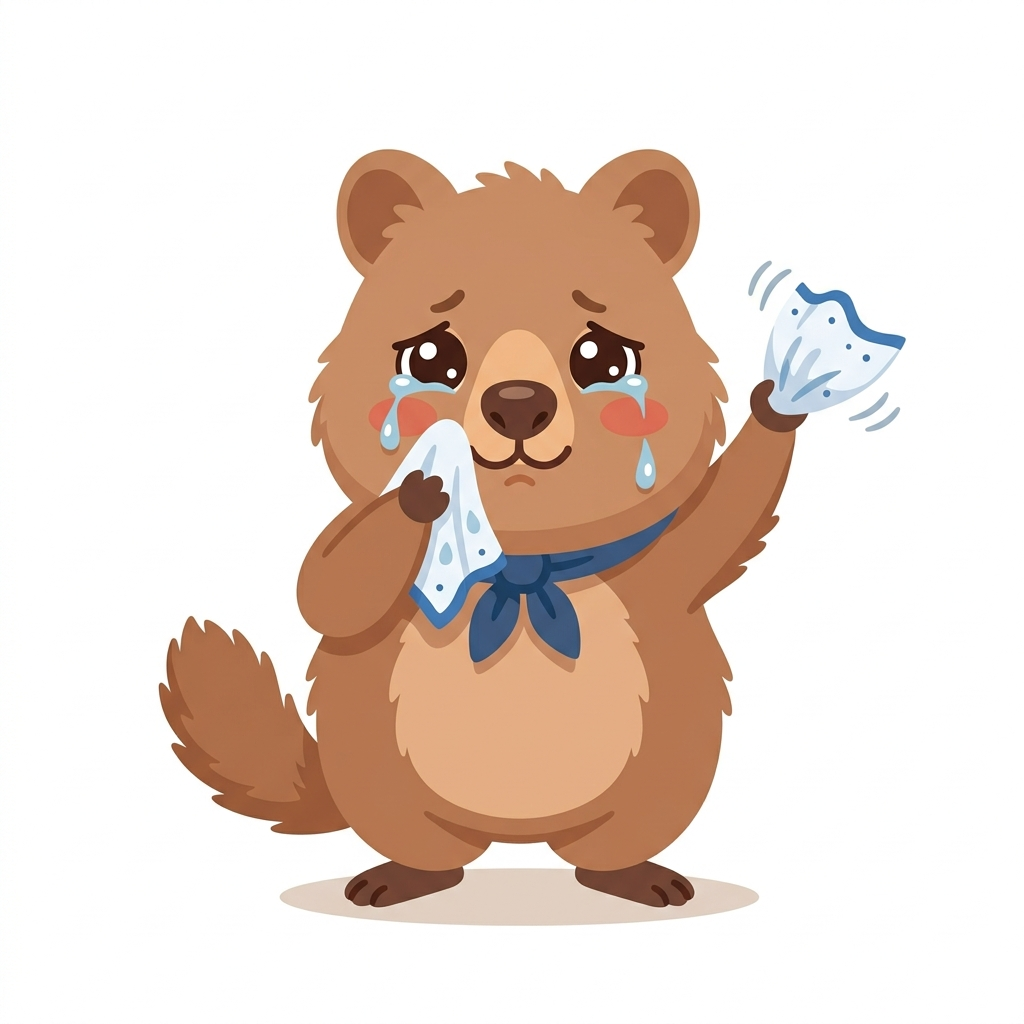
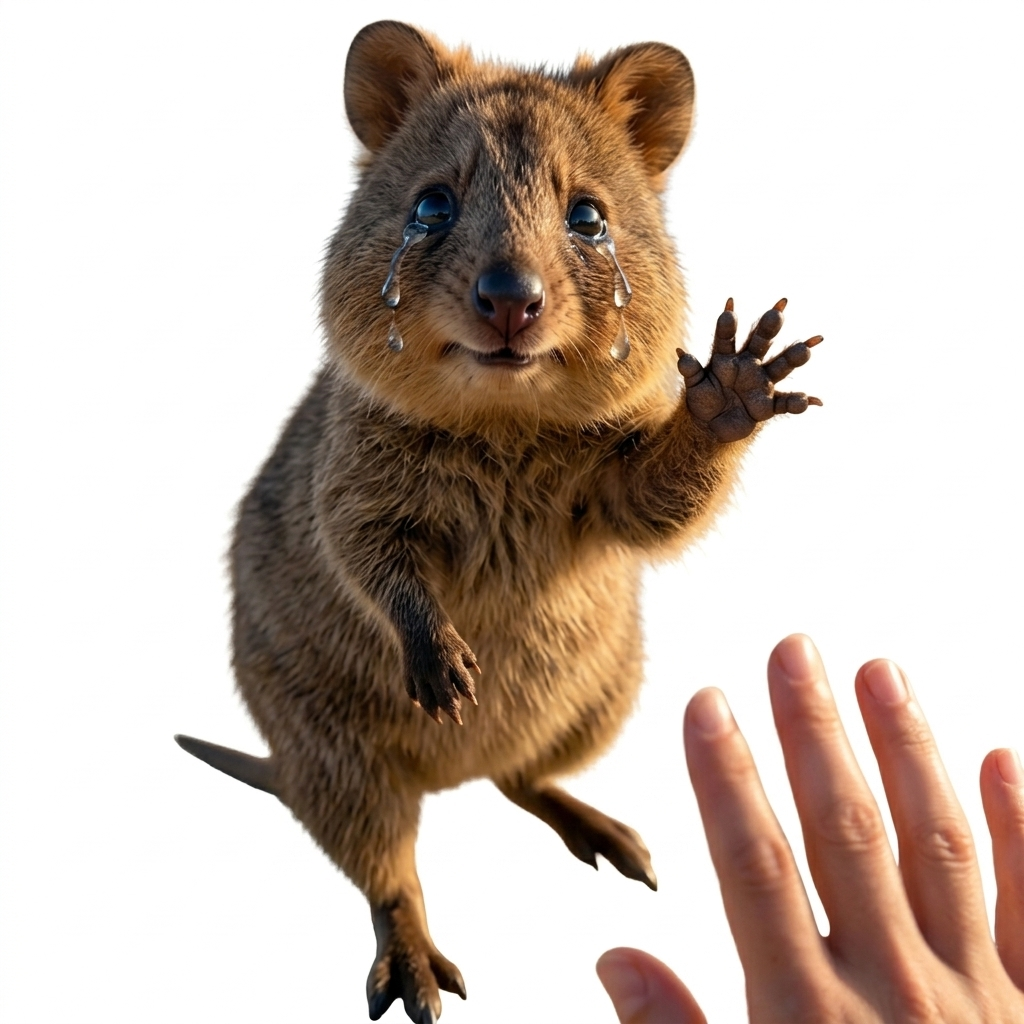
feat: replace animations with user provided images and update logic

diff --git a/public/app.js b/public/app.js
@@ -1023,45 +1023,19 @@ function playPlusOneAnimation(btn) {
   const scrollListener = () => updatePosition();
   window.addEventListener('scroll', scrollListener, true);
   
-  const orbitWrapper = document.createElement('div');
-  orbitWrapper.style.position = 'absolute';
-  orbitWrapper.style.left = '0';
-  orbitWrapper.style.top = '0';
-  orbitWrapper.style.width = '0';
-  orbitWrapper.style.height = '0';
-  orbitWrapper.style.animation = 'quokkaOrbit 1.5s linear infinite';
-  
   const quokka = document.createElement('img');
   getTransparentImage('images/quokka_dance.png', (src) => {
     quokka.src = src;
   });
   quokka.style.position = 'absolute';
-  quokka.style.width = '110px';
+  quokka.style.width = '120px';
   quokka.style.height = 'auto';
-  quokka.style.marginTop = '-55px';
-  quokka.style.marginLeft = '-55px';
-  quokka.style.animation = 'quokkaBounce 0.4s ease-in-out infinite';
-  
-  orbitWrapper.appendChild(quokka);
-  container.appendChild(orbitWrapper);
-  
-  const flowerInterval = setInterval(() => {
-    const flower = document.createElement('div');
-    flower.innerText = ['🌸', '🌺', '🌼', '✨'][Math.floor(Math.random() * 4)];
-    flower.style.position = 'absolute';
-    flower.style.fontSize = '24px';
-    const angle = (Date.now() / 1500) * 360 * (Math.PI / 180);
-    const x = Math.cos(angle) * 70;
-    const y = Math.sin(angle) * 70;
-    flower.style.left = `${x}px`;
-    flower.style.top = `${y}px`;
-    flower.style.animation = 'flowerFall 1s forwards ease-in';
-    container.appendChild(flower);
-    setTimeout(() => flower.remove(), 1000);
-  }, 150);
+  quokka.style.marginTop = '-120px';
+  quokka.style.marginLeft = '-60px';
+  quokka.style.animation = 'quokkaJump 0.5s ease-in-out infinite alternate';
+  container.appendChild(quokka);
   
   const cleanup = () => {
-    clearInterval(flowerInterval);
     btn.classList.remove('glowing-prize');
     container.remove();
     window.removeEventListener('scroll', scrollListener, true);
@@ -1085,126 +1059,98 @@ function playPlusOneAnimation(btn) {
 
 function playMinusOneDodgeAnimation(btn) {
   btn.dataset.dodged = 'true';
-  btn.style.position = 'relative';
+  btn.style.visibility = 'hidden';
   
-  const moveX = (Math.random() > 0.5 ? 1 : -1) * (Math.random() * 50 + 40);
-  const moveY = (Math.random() > 0.5 ? 1 : -1) * (Math.random() * 30 + 15);
-  // Sneaky slow transition
-  btn.style.transition = 'transform 1.2s cubic-bezier(0.42, 0, 0.58, 1)';
-  btn.style.transform = `translate(${moveX}px, ${moveY}px)`;
+  const startPos = getButtonCenter(btn);
   
-  if (!btn.querySelector('.quokka-carry')) {
-    const quokka = document.createElement('img');
-    getTransparentImage('images/quokka_carry.png', (src) => {
-      quokka.src = src;
-    });
-    quokka.className = 'quokka-carry';
-    quokka.style.position = 'absolute';
-    quokka.style.width = '70px';
-    quokka.style.height = 'auto';
-    quokka.style.right = '-35px'; // Overlap more to hide left arm behind button
-    quokka.style.top = '50%';
-    quokka.style.transform = 'translateY(-50%)';
-    quokka.style.pointerEvents = 'none';
-    quokka.style.zIndex = '-1'; // Place body and back arm BEHIND the button
-    quokka.style.animation = 'quokkaTiptoe 0.4s infinite';
-    btn.appendChild(quokka);
-
-    // Front paw on TOP of the button
-    const paw = document.createElement('div');
-    paw.className = 'quokka-paw';
-    paw.style.position = 'absolute';
-    paw.style.width = '16px';
-    paw.style.height = '12px';
-    paw.style.backgroundColor = '#A0522D'; // Sienna/brown color
-    paw.style.border = '1px solid #5C3A21'; // Dark outline
-    paw.style.borderRadius = '8px';
-    paw.style.right = '5px'; // On the button's right edge
-    paw.style.top = '50%';
-    paw.style.transform = 'translateY(-50%)';
-    paw.style.zIndex = '5'; // IN FRONT of the button
-    paw.style.pointerEvents = 'none';
-    paw.style.animation = 'quokkaTiptoe 0.4s infinite';
-    btn.appendChild(paw);
-  }
+  const floatingQuokka = document.createElement('div');
+  floatingQuokka.className = 'floating-quokka-carry';
+  floatingQuokka.style.position = 'fixed';
+  floatingQuokka.style.zIndex = '9999';
+  floatingQuokka.style.cursor = 'pointer';
+  floatingQuokka.style.transition = 'transform 2s ease-in-out';
+  floatingQuokka.style.left = (startPos.x - 60) + 'px';
+  floatingQuokka.style.top = (startPos.y - 60) + 'px';
+  
+  const img = document.createElement('img');
+  getTransparentImage('images/quokka_carry_1.png', (src) => {
+    img.src = src;
+  });
+  img.style.width = '120px';
+  img.style.height = 'auto';
+  img.style.pointerEvents = 'none'; // clicks go to the wrapper
+  floatingQuokka.appendChild(img);
+  
+  document.body.appendChild(floatingQuokka);
+  
+  const moveRandomly = () => {
+    const maxX = window.innerWidth - 120;
+    const maxY = window.innerHeight - 120;
+    const rx = Math.random() * maxX - (startPos.x - 60);
+    const ry = Math.random() * maxY - (startPos.y - 60);
+    floatingQuokka.style.transform = `translate(${rx}px, ${ry}px)`;
+  };
+  
+  setTimeout(moveRandomly, 100);
+  const moveInterval = setInterval(moveRandomly, 2000);
+  
+  floatingQuokka._moveInterval = moveInterval;
+  floatingQuokka._img = img;
+  floatingQuokka._startPos = startPos;
+  
+  floatingQuokka.addEventListener('click', (e) => {
+    e.stopPropagation();
+    btn._floatingQuokka = floatingQuokka;
+    btn.click();
+  });
 }
 
 function playMinusOneCancelAnimation(btn) {
   btn.dataset.dodged = 'false';
-  btn.style.transition = 'transform 0.5s ease';
-  btn.style.transform = 'translate(0px, 0px)';
   
-  const carryQuokka = btn.querySelector('.quokka-carry');
-  if (carryQuokka) carryQuokka.remove();
+  const floatingQuokka = btn._floatingQuokka;
+  if (!floatingQuokka) {
+    btn.style.visibility = 'visible';
+    return;
+  }
   
-  const paw = btn.querySelector('.quokka-paw');
-  if (paw) paw.remove();
+  clearInterval(floatingQuokka._moveInterval);
   
-  const container = document.createElement('div');
-  container.style.position = 'fixed';
-  container.style.pointerEvents = 'none';
-  container.style.zIndex = '9999';
-  document.body.appendChild(container);
-  
-  const updatePosition = () => {
-    const center = getButtonCenter(btn);
-    container.style.left = center.x + 'px';
-    container.style.top = center.y + 'px';
-  };
-  updatePosition();
-  
-  const scrollListener = () => updatePosition();
-  window.addEventListener('scroll', scrollListener, true);
-  
-  const quokkaMover = document.createElement('div');
-  quokkaMover.style.position = 'absolute';
-  quokkaMover.style.left = '40px';
-  quokkaMover.style.top = '-50px';
-  quokkaMover.style.width = '120px';
-  quokkaMover.style.height = '120px';
-  
-  const quokka = document.createElement('img');
-  getTransparentImage('images/quokka_cry.png', (src) => {
-    quokka.src = src;
+  // 圖2
+  getTransparentImage('images/quokka_carry_2.png', (src) => {
+    floatingQuokka._img.src = src;
   });
-  quokka.style.position = 'absolute';
-  quokka.style.width = '100%';
-  quokka.style.height = 'auto';
-  quokkaMover.appendChild(quokka);
-  container.appendChild(quokkaMover);
   
-  // 1. Walk in
-  quokkaMover.style.animation = 'quokkaWalkIn 1s ease-out forwards';
-  quokka.style.animation = 'quokkaWobble 0.4s infinite';
+  // 回歸原位
+  floatingQuokka.style.transition = 'transform 1s ease-in-out';
+  floatingQuokka.style.transform = 'translate(0px, 0px)';
   
   setTimeout(() => {
-    // 2. Stop wiggling, do press
-    quokka.style.animation = 'none';
-    quokkaMover.style.animation = 'quokkaPress 0.4s ease-in-out forwards';
+    // 按下去的動作
+    floatingQuokka.style.transition = 'transform 0.2s';
+    floatingQuokka.style.transform = 'translate(0px, 10px)';
     
     setTimeout(() => {
-      // 3. Show -1 text
-      const minusOne = document.createElement('div');
-      minusOne.innerText = '-1';
-      minusOne.style.position = 'absolute';
-      minusOne.style.color = 'var(--danger-color)';
-      minusOne.style.fontWeight = 'bold';
-      minusOne.style.fontSize = '32px';
-      minusOne.style.left = '-15px';
-      minusOne.style.top = '-30px';
-      minusOne.style.animation = 'floatUpFade 1s forwards';
-      container.appendChild(minusOne);
+      floatingQuokka.style.transform = 'translate(0px, 0px)';
       
-      // 4. Wave and leave
+      // 顯示真正的按鈕
+      btn.style.visibility = 'visible';
+      
+      // 圖3 揮手哭泣
+      getTransparentImage('images/quokka_cry.png', (src) => {
+        floatingQuokka._img.src = src;
+      });
+      
+      floatingQuokka.style.animation = 'quokkaLeave 4s forwards';
+      
       setTimeout(() => {
-        quokkaMover.style.animation = 'quokkaLeave 4.5s forwards';
-        setTimeout(() => {
-          container.remove();
-          window.removeEventListener('scroll', scrollListener, true);
-        }, 4500);
-      }, 500);
+        floatingQuokka.remove();
+      }, 4000);
+      
     }, 200);
   }, 1000);
+  
+  btn._floatingQuokka = null;
 }
 
 // 處理新的輸入框報名與防呆
@@ -1225,12 +1171,12 @@ async function handleActionWithInput(event, gameId, action) {
     document.querySelectorAll('button.btn-danger').forEach(b => {
       if (b.dataset.dodged === 'true') {
         b.dataset.dodged = 'false';
-        b.style.transition = 'transform 1s ease';
-        b.style.transform = 'translate(0px, 0px)';
-        const carryQ = b.querySelector('.quokka-carry');
-        if (carryQ) carryQ.remove();
-        const paw = b.querySelector('.quokka-paw');
-        if (paw) paw.remove();
+        b.style.visibility = 'visible';
+        if (b._floatingQuokka) {
+          clearInterval(b._floatingQuokka._moveInterval);
+          b._floatingQuokka.remove();
+          b._floatingQuokka = null;
+        }
       }
     });
   }

diff --git a/public/style.css b/public/style.css
@@ -398,3 +398,8 @@ button:disabled { opacity: 0.5; cursor: not-allowed; animation: none !important;
   0%, 100% { transform: translateY(0) rotate(-5deg); }
   50% { transform: translateY(-5px) rotate(5deg); }
 }
+
+@keyframes quokkaJump {
+  0% { transform: translateY(0); }
+  100% { transform: translateY(-20px); }
+}
